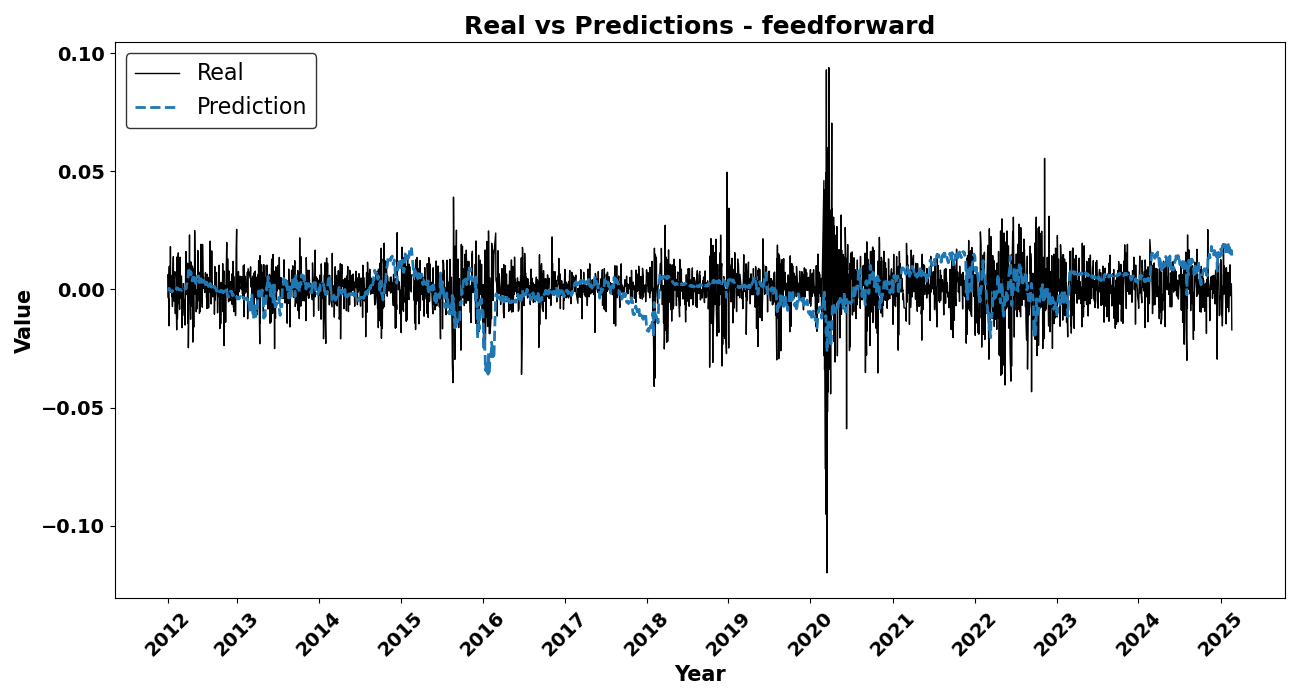
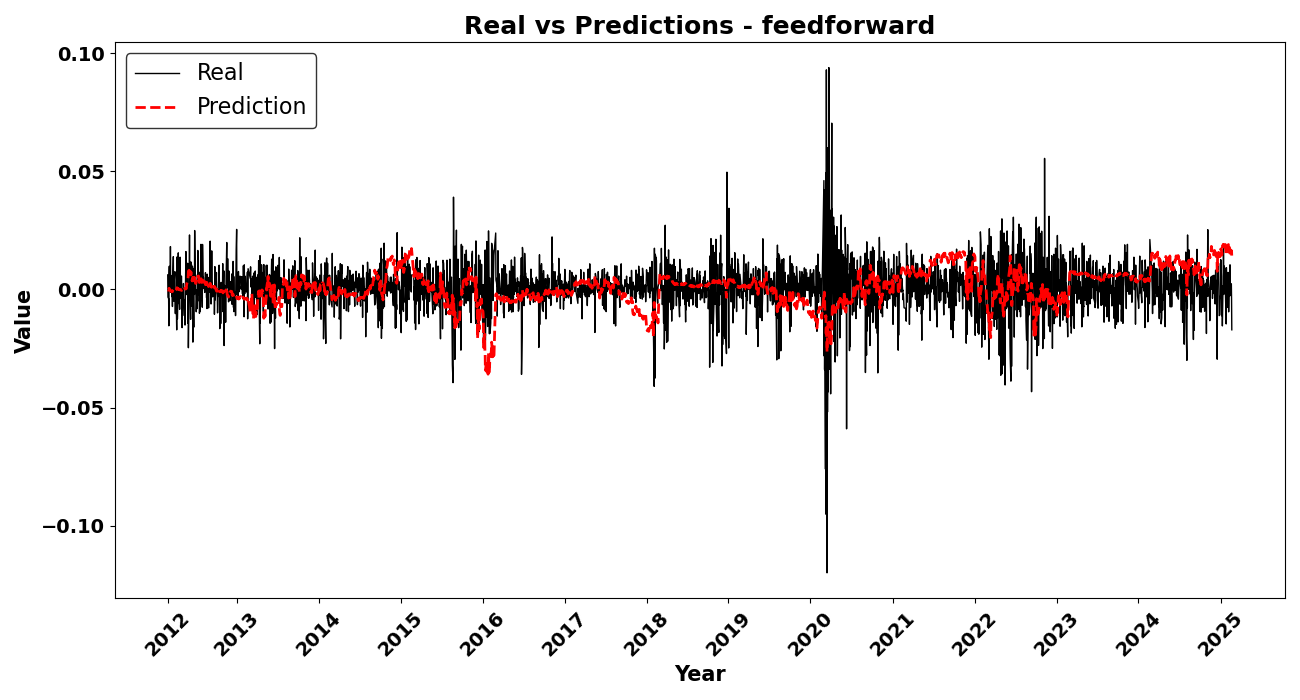
names

Changed region(s): [[0.1231, 0.33, 0.9538, 0.54]]

diff --git a/plotting.py b/plotting.py
@@ -45,7 +45,7 @@ def plot_real_vs_predictions(
         )
         pred_line, = plt.plot(
             merged[date_col], merged[model], 
-            label="Prediction", linestyle="--", linewidth=2
+            label="Prediction", linestyle="--", linewidth=2, color="red"
         )
 
         # X-axis: only mark the beginning of each year
@@ -83,7 +83,7 @@ def plot_real_vs_predictions(
 
 plot_real_vs_predictions(
     real_csv_path="data_non_std.csv",
-    model_names=['temporalfusiontransformer', 'lstm', 'feedforward', 'transformer', 'temporalconvnet', 'cnn'],
-    predictions_dir="results_autoencoder",
+    model_names=['tft_ex', 'lstm_ex', 'feedforward_ex', 'transformer_ex', 'tcn_ex', 'cnn_ex'],
+    predictions_dir="expanding/trained_outputs_ae",
     output_dir="plots"
 )
